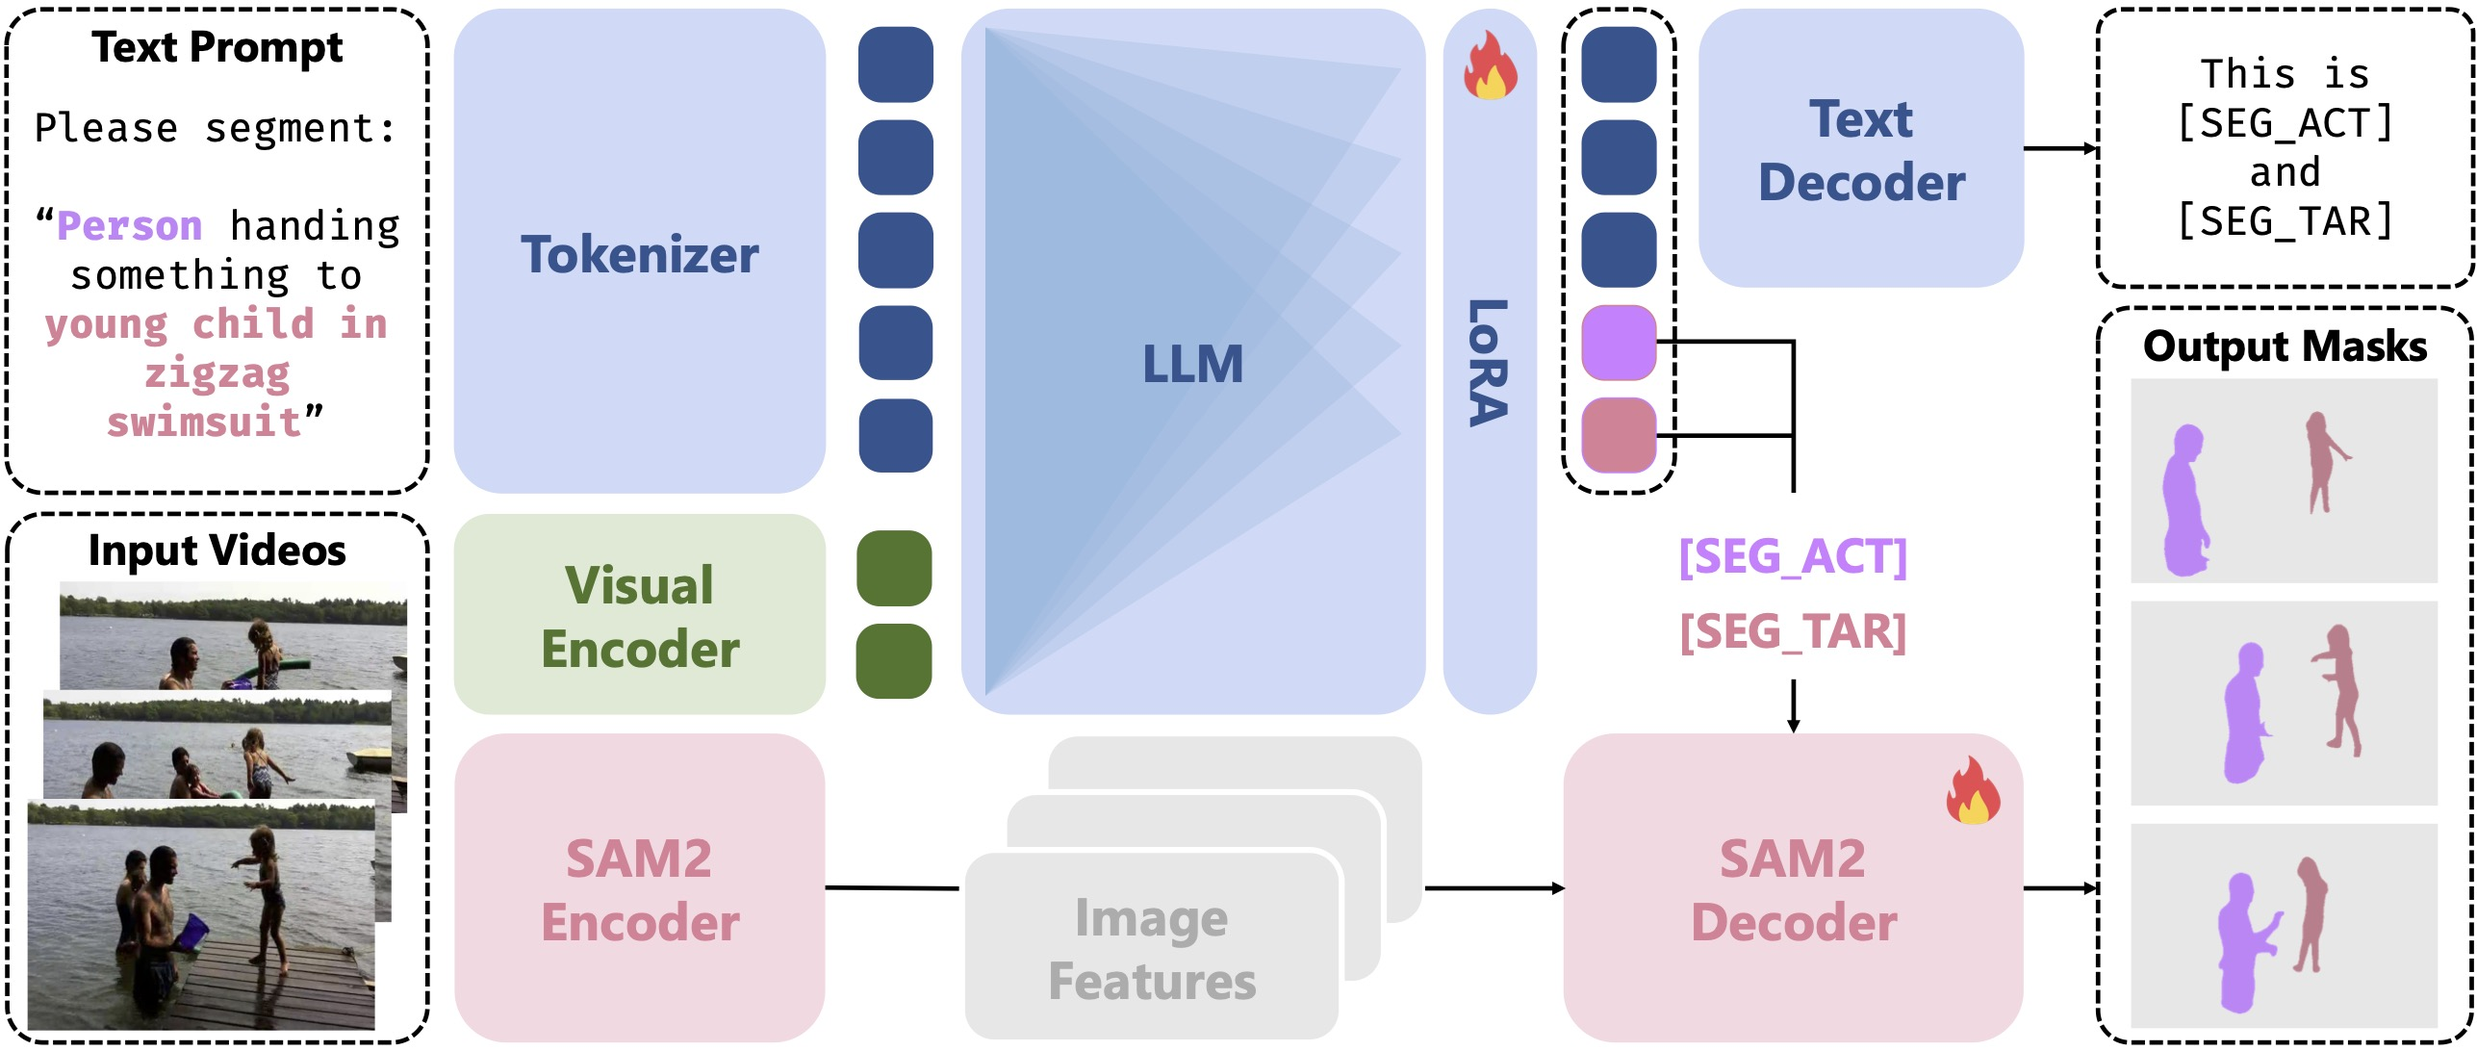
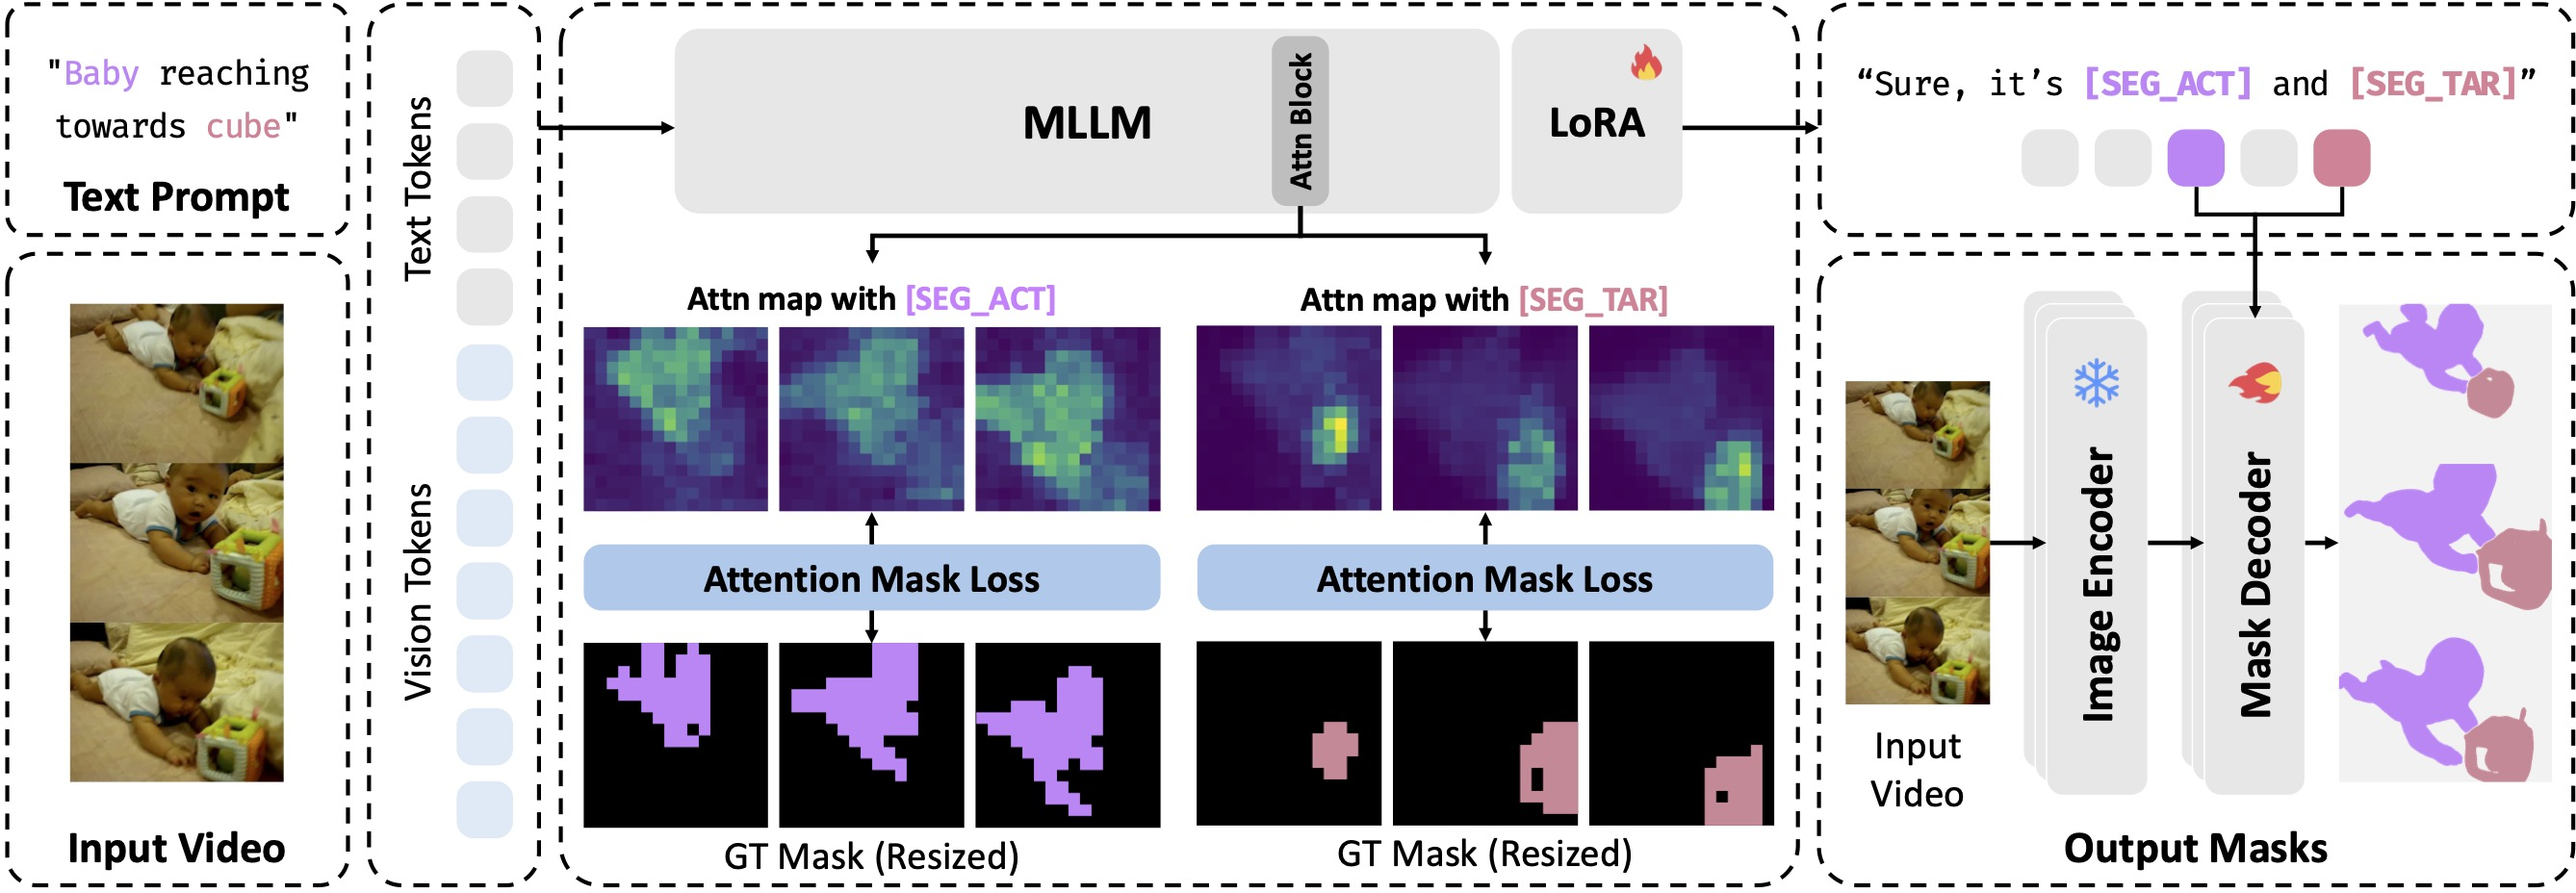
modify index.html

diff --git a/index.html b/index.html
@@ -62,7 +62,9 @@
               <span class="author-block">
                 <a href="https://github.com/deep-overflow" target="_blank">Seongchan Kim</a>,</span>
               <span class="author-block">
-                <a href="https://cvlab.kaist.ac.kr/members/faculty" target="_blank">Seungryong Kim</a>
+                <a href="https://github.com/jefflee0810" target="_blank">Jaeho Lee</a>,</span>
+              <span class="author-block">
+                <a href="https://cvlab.kaist.ac.kr/members/faculty" target="_blank">Seungryong Kim</a><sup>†</sup>
               </span>
                 <div>
                 </div>
@@ -70,6 +72,8 @@
                 </div>
                   <div class="is-size-5 publication-authors">
                       <span class="author-block">KAIST AI</span>
+                      <br>
+                      <span class="author-block"><small><sup>†</sup>Corresponding Author</small></span>
                       <br>
                       <span class="author-block" style="margin-top: -10px;"></span>
                       <!-- <span class="author-block" style="margin-top: 20px;"><small><sup>*</sup>Indicates Equal Contributions</small></span> -->
@@ -133,7 +137,13 @@
   <div class="columns is-centered has-text-centered">
     <div class="column is-four-fifths">
       <p style="font-size: 20px; text-align: center; max-width: 100%; margin-bottom: -50px;" id="slider-description">
-        We introduce <b>Interaction-aware Referring Video Object Segmentation</b>, a new task that <br> requires segmenting both actor and target entities involved in an interaction.
+        We introduce <b>Interaction-aware Referring Video Object Segmentation (InterRVOS)</b>, 
+        a novel task that <br> 
+        extends standard RVOS by requiring the model to segment the 
+        <span style="color: #58aef5;"><b>actor</b></span> 
+        and 
+        <span style="color: rgb(244, 130, 113);"><b>target</b></span> 
+        objects <i>separately</i>.
       </p>
       </div>
     </div>
@@ -261,15 +271,16 @@
         <h2 class="title is-3">Abstract</h2>
         <div class="content has-text-justified">
           <p>
-            Referring video object segmentation aims to segment the object in a video corresponding to a given natural language expression.
-            While prior work has explored various referring scenarios, including motion-centric or multi-instance expressions, most approaches still focus on localizing a single target object in isolation.
-            However, in comprehensive video understanding, an object’s role is often defined by its interactions with other entities, which are largely overlooked in existing datasets and models.
-            In this work, we introduce <b>InterRVOS</b>, a new task that requires segmenting both actor and target entities involved in an interaction.
-            Each interaction is described through a pair of complementary expressions from different semantic perspectives, enabling fine-grained modeling of inter-object relationships.
-            To tackle this task, we propose <b>InterRVOS-8K</b>, the large-scale and automatically constructed dataset containing diverse interaction-aware expressions, including challenging cases such as motion-only multi-instance expressions.
-            We also present a baseline architecture <b>ReVIOSa</b> designed to handle actor-target segmentation from a single expression, achieving strong performance on both standard and interaction-focused settings.
-            Furthermore, we introduce a actor-target aware evaluation setting that enables a more targeted assessment of interaction understanding.
-            Experimental results demonstrate that our approach outperforms prior methods in modeling complex object interactions for referring video object segmentation task, establishing a strong foundation for future research in interaction-centric video understanding.
+            Referring video object segmentation (RVOS) aims to segment objects in a video described by a natural language expression.
+            However, most existing approaches focus on segmenting only the referred objects (typically the actor), even when the expression clearly describes an interaction involving multiple objects with distinct roles.
+            For instance, "A <i>throwing</i> B" implies a directional interaction, but standard RVOS segments only the actor (A), neglecting other involved target objects (B).
+            In this paper, we introduce <b>Interaction-aware Referring Video Object Segmentation (InterRVOS)</b>, a novel task that focuses on the modeling of interactions.
+            It requires the model to segment the actor and target objects separately, reflecting their asymmetric roles in an interaction.
+            This task formulation enables fine-grained understanding of object relationships, as many video events are defined by such relationships rather than individual objects.
+            To support this task, we propose a new evaluation protocol that separately evaluates actor and target segmentation, enabling more accurate assessment of the model's ability to distinguish and segment actor and target roles.
+            We also present InterRVOS-127K, a large-scale dataset with over 127K automatically annotated expressions, including interaction expressions annotated with distinct masks for actor and target objects.
+            Furthermore, we develop ReVIOSa, an MLLM-based architecture that introduces interaction-aware special tokens and leverages an attention mask loss to enhance role-specific segmentation.
+            Extensive experiments show that ReVIOSa not only outperforms existing baselines on our proposed InterRVOS-127K evaluation set, but also achieves strong performance on standard RVOS benchmarks.
           </p>
         </div>
       </div>
@@ -357,13 +368,13 @@
             <td align="center">-</td>
           </tr>
           <tr>
-            <td align="right" bgcolor="E5E5E5"><b>InterRVOS-8K (Ours)</b></td>
+            <td align="right" bgcolor="E5E5E5"><b>InterRVOS-127K (Ours)</b></td>
             <td align="center" bgcolor="E5E5E5"><b>-</b></td>
             <td align="center" bgcolor="E5E5E5"><b>8,738</b></td>
             <td align="center" bgcolor="E5E5E5"><b>35,247</b></td>
-            <td align="center" bgcolor="E5E5E5"><b>127,314</b></td>
+            <td align="center" bgcolor="E5E5E5"><b>127,236</b></td>
             <td align="center" bgcolor="E5E5E5"><b>4.03</b></td>
-            <td align="center" bgcolor="E5E5E5"><b>17,682</b></td>
+            <td align="center" bgcolor="E5E5E5"><b>17,604</b></td>
           </tr>
         </tbody>
         <colgroup>
@@ -380,10 +391,8 @@
       </table>
     </center><br>
     <p style="text-align:justify; text-justify:inter-ideograph;width:100%">
-      Our newly proposed <b>InterRVOS-8K</b> offers the <b>largest number of referring expressions</b> and a <b>high object-per-video ratio</b>, enabling richer and
-      more diverse visual grounding across complex scenes compared to existing benchmarks. Unlike
-      existing datasets, InterRVOS-8K also provides <b>interaction-aware referring expressions</b> that explicitly
-      distinguish between actor and target roles, enabling fine-grained understanding of visual interactions.
+      <b>InterRVOS-127K</b> offers the largest number of referring expressions and a high object-per-video ratio, enabling richer and more diverse visual grounding across complex scenes compared to existing benchmarks.
+      Unlike existing datasets, InterRVOS-127K also provides interaction-aware referring expressions that explicitly distinguish between actor and target roles, enabling fine-grained understanding of visual interactions.
     </p>
   </div>
 </section>
@@ -410,18 +419,18 @@
   <div class="container is-max-desktop">
     <div class="columns is-centered">
       <div class="column is-full-width">
-        <h2 class="title is-3 has-text-centered">Dataset Samples</h2>
+        <h2 class="title is-3 has-text-centered" style="margin-bottom: -2rem; margin-top: 3rem;">Dataset Samples</h2>
         <div class="hero-body" style="position: relative; text-align: center;">
-          <button id="arrow-left" style="position: absolute; top: 50%; left: -30px; transform: translateY(-50%); background: none; border: none; cursor: pointer; z-index: 10;">
+          <button id="sample-arrow-left" style="position: absolute; top: 50%; left: -30px; transform: translateY(-50%); background: none; border: none; cursor: pointer; z-index: 10;">
             <i class="fas fa-arrow-left" style="font-size: 24px; color: #333;"></i>
           </button>
           <div style="position: relative;">
             <img class="teaser-image" src="static/results/images/data_samples_1.jpg" alt="Method image" class="method" id="dataset-samples" style="transition: opacity 0.5s ease-in-out; max-width: 100%;">
 
-            <p id="image-caption" style="margin-top: 10px; font-size: 16px; font-style: italic; color: #555;"></p>
+            <p id="sample-image-caption" style="margin-top: 10px; font-size: 16px; font-style: italic; color: #555;"></p>
           </div>
 
-          <button id="arrow-right" style="position: absolute; top: 50%; right: -30px; transform: translateY(-50%); background: none; border: none; cursor: pointer; z-index: 10;">
+          <button id="sample-arrow-right" style="position: absolute; top: 50%; right: -30px; transform: translateY(-50%); background: none; border: none; cursor: pointer; z-index: 10;">
             <i class="fas fa-arrow-right" style="font-size: 24px; color: #333;"></i>
           </button>
         </div>
@@ -429,7 +438,7 @@
         <h2 class="content has-text-justified">
           Our dataset includes a wide range of referring expressions, covering both challenging cases such as <b>multi-object references and motion-only descriptions</b>,
           as well as a diverse spectrum of expression granularity— <b>from simple class-level descriptions to fine-grained appearance-based references</b>.
-          In addition to conventional referring expressions, InterRVOS-8K explicitly incorporates <b>interaction-focused expressions that distinguish between actor and target roles</b>.
+          In addition to conventional referring expressions, InterRVOS-127K explicitly incorporates <b>interaction-focused expressions that distinguish between actor and target roles</b>.
           The examples also demonstrate the presence of multiple objects within a single video and highlight the relationships between them,
           confirming that our dataset effectively captures object-level interactions in complex visual scenes.
         </h2>
@@ -458,7 +467,7 @@
 
   function updateImageAndCaptionDatasetSamples(index) {
     const mainImage = document.getElementById('dataset-samples');
-    const imageCaption = document.getElementById('image-caption');
+    const imageCaption = document.getElementById('sample-image-caption');
   
     mainImage.style.opacity = '0';
 
@@ -466,23 +475,18 @@
       mainImage.src = images[index].src;
       imageCaption.textContent = images[index].caption;
 
-    
-      if (images[index].src.includes('module.jpg')) {
-        mainImage.style.maxWidth = '50%';
-      } else {
-        mainImage.style.maxWidth = '100%';
-      }
+      mainImage.style.maxWidth = '100%';
     
       mainImage.style.opacity = '1';
     }, 500);
   }
 
-  document.getElementById('arrow-left').addEventListener('click', function () {
+  document.getElementById('sample-arrow-left').addEventListener('click', function () {
     currentIndex = (currentIndex - 1 + images.length) % images.length;
     updateImageAndCaptionDatasetSamples(currentIndex);
   });
 
-  document.getElementById('arrow-right').addEventListener('click', function () {
+  document.getElementById('sample-arrow-right').addEventListener('click', function () {
     currentIndex = (currentIndex + 1) % images.length;
     updateImageAndCaptionDatasetSamples(currentIndex);
   });
@@ -493,17 +497,16 @@
   <div class="container is-max-desktop">
     <div class="columns is-centered">
       <div class="column is-full-width">
-        <h2 class="title is-3 has-text-centered">Baseline Approach : ReVIOSa</h2>
+        <h2 class="title is-3 has-text-centered">Architecture : ReVIOSa</h2>
         <figure class="image is-centered">
           <img class="teaser-image" src="static/results/images/architecture.jpg" alt="Qualitative Results" class="method main-quan">
           <h2 class="content has-text-justified" style="margin-top: 20px;">
-            As our proposed dataset InterRVOS-8K emphasizes a detailed understanding of object interactions
-            and diverse motion dynamics, we present <b>ReVIOSa</b> (<u><b>Re</b></u>ferring <u><b>V</b></u>ideo <u><b>I</b></u>nteraction-aware <u><b>O</b></u>bject
-            <u><b>S</b></u>egment<u><b>a</b></u>tion), a baseline architecture tailored for this purpose. Unlike prior RVOS approaches
-            that typically segment only the actor referred to in the language expression, ReVIOSa is designed
-            to jointly reason about and segment both the actor object and the target object, especially in cases
-            involving unidirectional interactions. This enables a richer interpretation of referring expressions by
-            explicitly modeling the relational context between interacting entities.
+            As InterRVOS emphasizes a detailed understanding of object interactions and diverse motion dynamics,
+            we propose <b>ReVIOSa</b> (<u><b>Re</b></u>ferring <u><b>V</b></u>ideo <u><b>I</b></u>nteraction-aware <u><b>O</b></u>bject<u><b>S</b></u>egment<u><b>a</b></u>tion),
+            a novel architecture tailored for this purpose.
+            Unlike prior RVOS setting that typically segment only the <i>actor</i> object referred to in the expression,
+            InterRVOS requires comprehensive reasoning over the interaction described, explicitly identifying the roles of both the actor and the target, and segmenting them accordingly.
+            To address these challenges, ReVIOSa utilizes <b>interaction-aware special tokens</b> and leverages <b>attention mask loss (AML)</b> to enable accurate disambiguation of actor and target roles and to capture the inter-object dynamics.
           </h2>
         </figure>
       </div>
@@ -620,30 +623,95 @@
 </script>
 
 
-<section class="hero section qualitative-results">
+<section class="hero section">
   <div class="container is-max-desktop">
     <div class="columns is-centered">
       <div class="column is-full-width">
-        <figure class="image is-centered">
-          <img class="teaser-image" src="static/results/images/main_qual.jpg" alt="Qualitative Results" class="method main-quan">
-          <figcaption class="has-text-centered caption" style="margin-top: 20px;">Qualitative results on <strong>InterRVOS-8K</strong>.</figcaption>
-        </figure>
+        <!-- <h2 class="title is-3 has-text-centered" style="margin-bottom: -2rem; margin-top: 3rem;">Qualitative Results</h2> -->
+        <div class="hero-body" style="position: relative; text-align: center;">
+          <button id="suppl-qual-arrow-left" style="position: absolute; top: 50%; left: -30px; transform: translateY(-50%); background: none; border: none; cursor: pointer; z-index: 10;">
+            <i class="fas fa-arrow-left" style="font-size: 24px; color: #333;"></i>
+          </button>
+          <div style="position: relative;">
+            <img class="teaser-image" src="static/results/images/suppl_qual_fig.jpg" alt="Suppl Qual Image" class="method" id="suppl-qual" style="transition: opacity 0.5s ease-in-out; max-width: 80%;">
+
+            <p id="suppl-qual-caption" style="margin-top: 10px; font-size: 16px; font-style: italic; color: #555;"></p>
+          </div>
+
+          <button id="suppl-qual-arrow-right" style="position: absolute; top: 50%; right: -30px; transform: translateY(-50%); background: none; border: none; cursor: pointer; z-index: 10;">
+            <i class="fas fa-arrow-right" style="font-size: 24px; color: #333;"></i>
+          </button>
+        </div>
+        
+        <!-- <h2 class="content has-text-centered">
+          Qualitative results on <b>InterRVOS-127K</b>.
+        </h2> -->
       </div>
     </div>
   </div>
 </section>
 
+<script>
+  const images_ = [
+    {
+      src: 'static/results/images/suppl_qual_fig.jpg',
+    },
+    {
+      src: 'static/results/images/suppl_qual_1_fig.jpg',
+    },
+    {
+      src: 'static/results/images/suppl_qual_2_fig.jpg',
+    },
+  ];
+
+  let currentIndex_ = 0;
+
+  function updateImageAndCaptionSupplQual(index) {
+    const mainImage_ = document.getElementById('suppl-qual');
+    const imageCaption = document.getElementById('suppl-qual-caption');
+  
+    mainImage_.style.opacity = '0';
+
+    setTimeout(() => {
+      mainImage_.src = images_[index].src;
+      imageCaption.textContent = images_[index].caption;
+
+      mainImage_.style.maxWidth = '80%';
+    
+      mainImage_.style.opacity = '1';
+    }, 500);
+  }
+
+  document.getElementById('suppl-qual-arrow-left').addEventListener('click', function () {
+    currentIndex_ = (currentIndex_ - 1 + images_.length) % images_.length;
+    updateImageAndCaptionSupplQual(currentIndex_);
+  });
+
+  document.getElementById('suppl-qual-arrow-right').addEventListener('click', function () {
+    currentIndex_ = (currentIndex_ + 1) % images_.length;
+    updateImageAndCaptionSupplQual(currentIndex_);
+  });
+</script>
+
 <section class="hero section qualitative-results"></section>
   <div class="container is-max-desktop">
     <div class="columns is-centered">
       <div class="column is-full-width">
-        <h2 class="title is-3 has-text-centered">Quantitative Results</h2>
+        <h2 class="title is-3 has-text-centered" style="margin-top: -5rem;">Quantitative Results</h2>
         <span class="content has-text-centered highlighted-text" ></span>
           The best-performing results are presented in <strong>bold</strong>, while the second-best results are <u>underlined</u>. <br>
         </span>
         <figure class="image is-centered">
-          <img class="teaser-image" src="static/results/images/main_quan.jpg" alt="Quantitative Results" class="method main-quan" style="margin-top: 20px;">
+          <img class="teaser-image" src="static/results/images/main_quan.png" alt="Quantitative Results" class="method main-quan" style="margin-top: 20px; margin-bottom: 1rem;">
         </figure>
+        <!-- <span class="content has-text-centered highlighted-text"></span>
+        ReVIOSa achieves the highest performance on interaction-aware settings (InterRVOS-Actor and InterRVOS-Target), demonstrating its effectiveness in modeling inter-object dynamics.
+        Notably, the surpassing performance on InterRVOS-Actor indicates that explicitly segmenting both the actor and the target enhances the model's ability to localize the actor itself, reflecting a better understanding of the overall temporal dynamics.
+      </span> -->
+      <figure class="image is-centered">
+        <img class="teaser-image" 
+             src="static/results/images/rvos_quan.png" alt="Quantitative Results" style="display: block; margin: 20px auto 1rem; width: 80%;">
+      </figure>
       </div>
     </div>
   </div>
